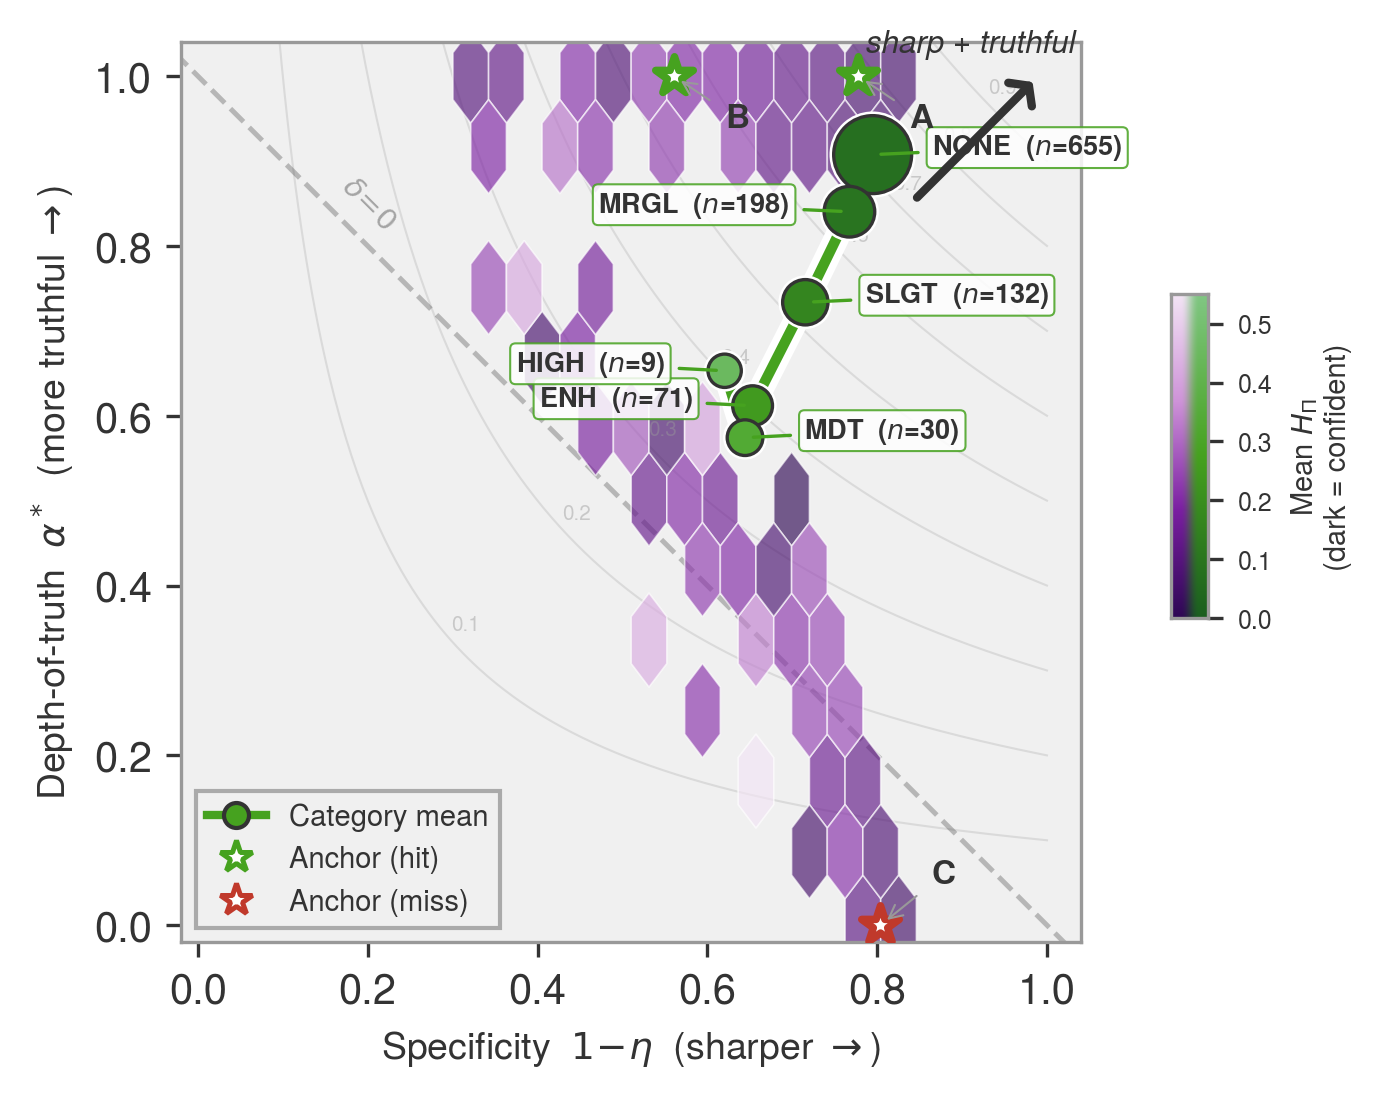
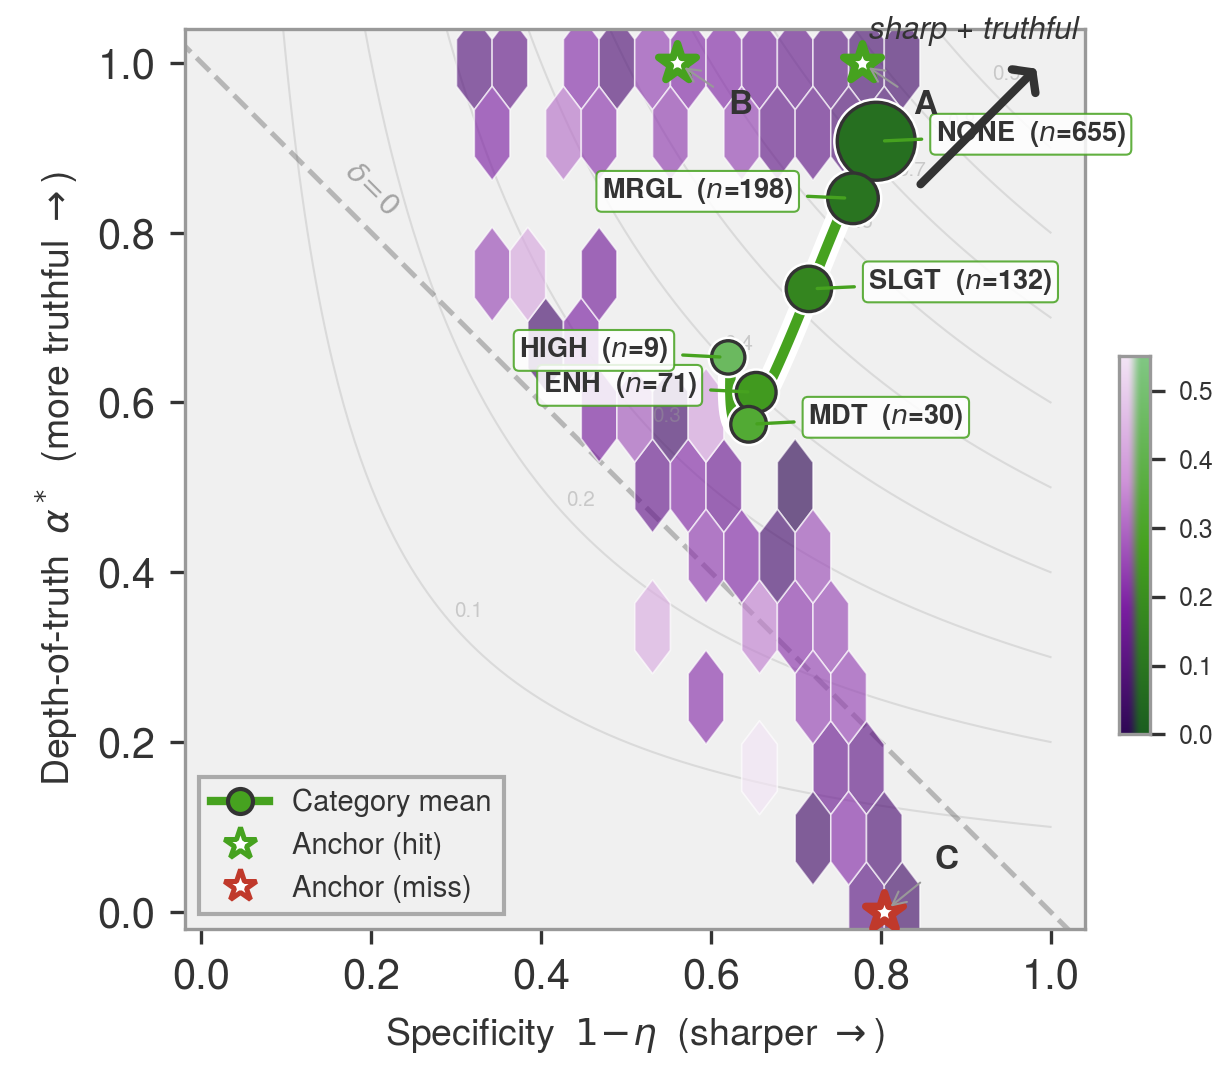
Fix hex distortion, smooth trajectories
Root cause: bbox_inches='tight' rcParam was cropping the figure
non-uniformly, distorting the square axes box. Fix: save with
savefig.bbox='standard' via rc_context. Pixel ratio now matches
figure ratio exactly (1.1389). Trajectories use cubic polyfit
smooth curves on both figures for visual consistency.

diff --git a/scripts/fig_perf_iterate.py b/scripts/fig_perf_iterate.py
@@ -187,6 +187,16 @@ def _traj_labels(ax, cats, xs, ys, ns, color=GREEN, fontsize=6.5):
             zorder=8)
 
 
+def _smooth_path(xs, ys, n_pts=80):
+    """Smooth curve through trajectory points using numpy polyfit."""
+    xs, ys = np.asarray(xs), np.asarray(ys)
+    t = np.linspace(0, 1, len(xs))
+    ts = np.linspace(0, 1, n_pts)
+    deg = min(3, len(xs) - 1)
+    return np.polyval(np.polyfit(t, xs, deg), ts), \
+           np.polyval(np.polyfit(t, ys, deg), ts)
+
+
 def draw_traj_spec_alpha(ax, means, color=GREEN, gcmap=None, gnorm=None):
     """GREEN trajectory on (1-eta, alpha*) axes.
 
@@ -198,9 +208,10 @@ def draw_traj_spec_alpha(ax, means, color=GREEN, gcmap=None, gnorm=None):
     ys = [means[c]['alpha'] for c in cats]
     ns = [means[c]['n'] for c in cats]
 
-    ax.plot(xs, ys, '-', color="white", lw=6, zorder=4,
+    xs_s, ys_s = _smooth_path(xs, ys)
+    ax.plot(xs_s, ys_s, '-', color="white", lw=6, zorder=4,
             solid_capstyle="round")
-    ax.plot(xs, ys, '-', color=color, lw=2.5, zorder=5,
+    ax.plot(xs_s, ys_s, '-', color=color, lw=2.5, zorder=5,
             solid_capstyle="round")
 
     s_min, s_max = 60, 350
@@ -231,9 +242,10 @@ def draw_traj_commit(ax, means, color=GREEN, fontsize=6.5,
     ys = [means[c]['delta'] for c in cats]
     ns = [means[c]['n'] for c in cats]
 
-    ax.plot(xs, ys, '-', color="white", lw=6, zorder=4,
+    xs_s, ys_s = _smooth_path(xs, ys)
+    ax.plot(xs_s, ys_s, '-', color="white", lw=6, zorder=4,
             solid_capstyle="round")
-    ax.plot(xs, ys, '-', color=color, lw=2.5, zorder=5,
+    ax.plot(xs_s, ys_s, '-', color=color, lw=2.5, zorder=5,
             solid_capstyle="round")
 
     s_min, s_max = 60, 350
@@ -259,15 +271,19 @@ def draw_traj_commit(ax, means, color=GREEN, fontsize=6.5,
 
 def v3b(data, ap, spec, anchors):
     """V3b: green trajectory + enhanced hexbin (all days)."""
+    from style import FIG_DIR, FIG_FORMAT, DPI
+    import os
+
     cm = hpi_cmap()
     nm = Normalize(0.0, 0.55)
     gcm = hpi_green_cmap()
     means = cat_means(data, spec)
 
-    # Manual positioning: guaranteed square axes box (3" × 3")
-    fig = plt.figure(figsize=(5.0, 4.5))
-    ax = fig.add_axes([0.13, 0.12, 0.60, 0.60 * 5.0 / 4.5])
-    cax = fig.add_axes([0.79, 0.36, 0.025, 0.24])
+    # Tight figsize minimises whitespace so bbox_inches='tight' can't
+    # distort the aspect ratio.  Axes box is exactly 3.0" × 3.0".
+    fig = plt.figure(figsize=(4.1, 3.6))
+    ax = fig.add_axes([0.15, 0.14, 3.0 / 4.1, 3.0 / 3.6])
+    cax = fig.add_axes([0.91, 0.32, 0.025, 0.35])
 
     ax.set_xlim(-0.02, 1.04)
     ax.set_ylim(-0.02, 1.04)
@@ -321,7 +337,15 @@ def v3b(data, ap, spec, anchors):
                   fontsize=9)
     ax.set_ylabel(r"Depth-of-truth  $\alpha^*$  (more truthful $\rightarrow$)",
                   fontsize=9)
-    save_fig(fig, "perf_hexbin_trajectory")
+
+    # Save WITHOUT bbox_inches='tight' to preserve exact square axes
+    path = os.path.join(FIG_DIR, f"perf_hexbin_trajectory.{FIG_FORMAT}")
+    os.makedirs(FIG_DIR, exist_ok=True)
+    with plt.rc_context({'savefig.bbox': 'standard'}):
+        fig.savefig(path, facecolor="white", transparent=False,
+                    dpi=DPI, pad_inches=0)
+    plt.close(fig)
+    print(f"Saved: {path}")
 
 
 # ------------------------------------------------------------------ #
